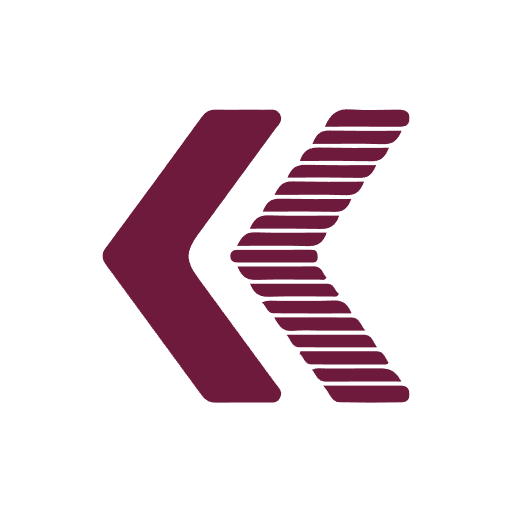
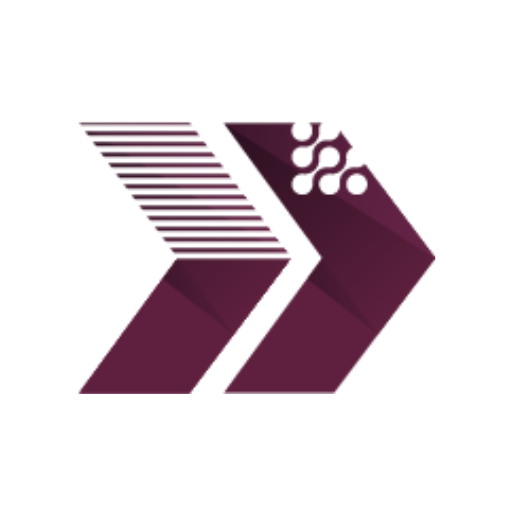
fix-template-bugs

Changed region(s): [[0.1562, 0.1875, 0.875, 0.8125]]

diff --git a/public/css/aos.min.css b/public/css/aos.min.css
@@ -1,0 +1,1 @@
+[data-aos][data-aos][data-aos-duration="50"],body[data-aos-duration="50"] [data-aos]{transition-duration:50ms}[data-aos][data-aos][data-aos-delay="50"],body[data-aos-delay="50"] [data-aos]{transition-delay:0}[data-aos][data-aos][data-aos-delay="50"].aos-animate,body[data-aos-delay="50"] [data-aos].aos-animate{transition-delay:50ms}[data-aos][data-aos][data-aos-duration="100"],body[data-aos-duration="100"] [data-aos]{transition-duration:.1s}[data-aos][data-aos][data-aos-delay="100"],body[data-aos-delay="100"] [data-aos]{transition-delay:0}[data-aos][data-aos][data-aos-delay="100"].aos-animate,body[data-aos-delay="100"] [data-aos].aos-animate{transition-delay:.1s}[data-aos][data-aos][data-aos-duration="150"],body[data-aos-duration="150"] [data-aos]{transition-duration:.15s}[data-aos][data-aos][data-aos-delay="150"],body[data-aos-delay="150"] [data-aos]{transition-delay:0}[data-aos][data-aos][data-aos-delay="150"].aos-animate,body[data-aos-delay="150"] [data-aos].aos-animate{transition-delay:.15s}[data-aos][data-aos][data-aos-duration="200"],body[data-aos-duration="200"] [data-aos]{transition-duration:.2s}[data-aos][data-aos][data-aos-delay="200"],body[data-aos-delay="200"] [data-aos]{transition-delay:0}[data-aos][data-aos][data-aos-delay="200"].aos-animate,body[data-aos-delay="200"] [data-aos].aos-animate{transition-delay:.2s}[data-aos][data-aos][data-aos-duration="250"],body[data-aos-duration="250"] [data-aos]{transition-duration:.25s}[data-aos][data-aos][data-aos-delay="250"],body[data-aos-delay="250"] [data-aos]{transition-delay:0}[data-aos][data-aos][data-aos-delay="250"].aos-animate,body[data-aos-delay="250"] [data-aos].aos-animate{transition-delay:.25s}[data-aos][data-aos][data-aos-duration="300"],body[data-aos-duration="300"] [data-aos]{transition-duration:.3s}[data-aos][data-aos][data-aos-delay="300"],body[data-aos-delay="300"] [data-aos]{transition-delay:0}[data-aos][data-aos][data-aos-delay="300"].aos-animate,body[data-aos-delay="300"] [data-aos].aos-animate{transition-delay:.3s}[data-aos][data-aos][data-aos-duration="350"],body[data-aos-duration="350"] [data-aos]{transition-duration:.35s}[data-aos][data-aos][data-aos-delay="350"],body[data-aos-delay="350"] [data-aos]{transition-delay:0}[data-aos][data-aos][data-aos-delay="350"].aos-animate,body[data-aos-delay="350"] [data-aos].aos-animate{transition-delay:.35s}[data-aos][data-aos][data-aos-duration="400"],body[data-aos-duration="400"] [data-aos]{transition-duration:.4s}[data-aos][data-aos][data-aos-delay="400"],body[data-aos-delay="400"] [data-aos]{transition-delay:0}[data-aos][data-aos][data-aos-delay="400"].aos-animate,body[data-aos-delay="400"] [data-aos].aos-animate{transition-delay:.4s}[data-aos][data-aos][data-aos-duration="450"],body[data-aos-duration="450"] [data-aos]{transition-duration:.45s}[data-aos][data-aos][data-aos-delay="450"],body[data-aos-delay="450"] [data-aos]{transition-delay:0}[data-aos][data-aos][data-aos-delay="450"].aos-animate,body[data-aos-delay="450"] [data-aos].aos-animate{transition-delay:.45s}[data-aos][data-aos][data-aos-duration="500"],body[data-aos-duration="500"] [data-aos]{transition-duration:.5s}[data-aos][data-aos][data-aos-delay="500"],body[data-aos-delay="500"] [data-aos]{transition-delay:0}[data-aos][data-aos][data-aos-delay="500"].aos-animate,body[data-aos-delay="500"] [data-aos].aos-animate{transition-delay:.5s}[data-aos][data-aos][data-aos-duration="550"],body[data-aos-duration="550"] [data-aos]{transition-duration:.55s}[data-aos][data-aos][data-aos-delay="550"],body[data-aos-delay="550"] [data-aos]{transition-delay:0}[data-aos][data-aos][data-aos-delay="550"].aos-animate,body[data-aos-delay="550"] [data-aos].aos-animate{transition-delay:.55s}[data-aos][data-aos][data-aos-duration="600"],body[data-aos-duration="600"] [data-aos]{transition-duration:.6s}[data-aos][data-aos][data-aos-delay="600"],body[data-aos-delay="600"] [data-aos]{transition-delay:0}[data-aos][data-aos][data-aos-delay="600"].aos-animate,body[data-aos-delay="600"] [data-aos].aos-animate{transition-delay:.6s}[data-aos][data-aos][data-aos-duration="650"],body[data-aos-duration="650"] [data-aos]{transition-duration:.65s}[data-aos][data-aos][data-aos-delay="650"],body[data-aos-delay="650"] [data-aos]{transition-delay:0}[data-aos][data-aos][data-aos-delay="650"].aos-animate,body[data-aos-delay="650"] [data-aos].aos-animate{transition-delay:.65s}[data-aos][data-aos][data-aos-duration="700"],body[data-aos-duration="700"] [data-aos]{transition-duration:.7s}[data-aos][data-aos][data-aos-delay="700"],body[data-aos-delay="700"] [data-aos]{transition-delay:0}[data-aos][data-aos][data-aos-delay="700"].aos-animate,body[data-aos-delay="700"] [data-aos].aos-animate{transition-delay:.7s}[data-aos][data-aos][data-aos-duration="750"],body[data-aos-duration="750"] [data-aos]{transition-duration:.75s}[data-aos][data-aos][data-aos-delay="750"],body[data-aos-delay="750"] [data-aos]{transition-delay:0}[data-aos][data-aos][data-aos-delay="750"].aos-animate,body[data-aos-delay="750"] [data-aos].aos-animate{transition-delay:.75s}[data-aos][data-aos][data-aos-duration="800"],body[data-aos-duration="800"] [data-aos]{transition-duration:.8s}[data-aos][data-aos][data-aos-delay="800"],body[data-aos-delay="800"] [data-aos]{transition-delay:0}[data-aos][data-aos][data-aos-delay="800"].aos-animate,body[data-aos-delay="800"] [data-aos].aos-animate{transition-delay:.8s}[data-aos][data-aos][data-aos-duration="850"],body[data-aos-duration="850"] [data-aos]{transition-duration:.85s}[data-aos][data-aos][data-aos-delay="850"],body[data-aos-delay="850"] [data-aos]{transition-delay:0}[data-aos][data-aos][data-aos-delay="850"].aos-animate,body[data-aos-delay="850"] [data-aos].aos-animate{transition-delay:.85s}[data-aos][data-aos][data-aos-duration="900"],body[data-aos-duration="900"] [data-aos]{transition-duration:.9s}[data-aos][data-aos][data-aos-delay="900"],body[data-aos-delay="900"] [data-aos]{transition-delay:0}[data-aos][data-aos][data-aos-delay="900"].aos-animate,body[data-aos-delay="900"] [data-aos].aos-animate{transition-delay:.9s}[data-aos][data-aos][data-aos-duration="950"],body[data-aos-duration="950"] [data-aos]{transition-duration:.95s}[data-aos][data-aos][data-aos-delay="950"],body[data-aos-delay="950"] [data-aos]{transition-delay:0}[data-aos][data-aos][data-aos-delay="950"].aos-animate,body[data-aos-delay="950"] [data-aos].aos-animate{transition-delay:.95s}[data-aos][data-aos][data-aos-duration="1000"],body[data-aos-duration="1000"] [data-aos]{transition-duration:1s}[data-aos][data-aos][data-aos-delay="1000"],body[data-aos-delay="1000"] [data-aos]{transition-delay:0}[data-aos][data-aos][data-aos-delay="1000"].aos-animate,body[data-aos-delay="1000"] [data-aos].aos-animate{transition-delay:1s}[data-aos][data-aos][data-aos-duration="1050"],body[data-aos-duration="1050"] [data-aos]{transition-duration:1.05s}[data-aos][data-aos][data-aos-delay="1050"],body[data-aos-delay="1050"] [data-aos]{transition-delay:0}[data-aos][data-aos][data-aos-delay="1050"].aos-animate,body[data-aos-delay="1050"] [data-aos].aos-animate{transition-delay:1.05s}[data-aos][data-aos][data-aos-duration="1100"],body[data-aos-duration="1100"] [data-aos]{transition-duration:1.1s}[data-aos][data-aos][data-aos-delay="1100"],body[data-aos-delay="1100"] [data-aos]{transition-delay:0}[data-aos][data-aos][data-aos-delay="1100"].aos-animate,body[data-aos-delay="1100"] [data-aos].aos-animate{transition-delay:1.1s}[data-aos][data-aos][data-aos-duration="1150"],body[data-aos-duration="1150"] [data-aos]{transition-duration:1.15s}[data-aos][data-aos][data-aos-delay="1150"],body[data-aos-delay="1150"] [data-aos]{transition-delay:0}[data-aos][data-aos][data-aos-delay="1150"].aos-animate,body[data-aos-delay="1150"] [data-aos].aos-animate{transition-delay:1.15s}[data-aos][data-aos][data-aos-duration="1200"],body[data-aos-duration="1200"] [data-aos]{transition-duration:1.2s}[data-aos][data-aos][data-aos-delay="1200"],body[data-aos-delay="1200"] [data-aos]{transition-delay:0}[data-aos][data-aos][data-aos-delay="1200"].aos-animate,body[data-aos-delay="1200"] [data-aos].aos-animate{transition-delay:1.2s}[data-aos][data-aos][data-aos-duration="1250"],body[data-aos-duration="1250"] [data-aos]{transition-duration:1.25s}[data-aos][data-aos][data-aos-delay="1250"],body[data-aos-delay="1250"] [data-aos]{transition-delay:0}[data-aos][data-aos][data-aos-delay="1250"].aos-animate,body[data-aos-delay="1250"] [data-aos].aos-animate{transition-delay:1.25s}[data-aos][data-aos][data-aos-duration="1300"],body[data-aos-duration="1300"] [data-aos]{transition-duration:1.3s}[data-aos][data-aos][data-aos-delay="1300"],body[data-aos-delay="1300"] [data-aos]{transition-delay:0}[data-aos][data-aos][data-aos-delay="1300"].aos-animate,body[data-aos-delay="1300"] [data-aos].aos-animate{transition-delay:1.3s}[data-aos][data-aos][data-aos-duration="1350"],body[data-aos-duration="1350"] [data-aos]{transition-duration:1.35s}[data-aos][data-aos][data-aos-delay="1350"],body[data-aos-delay="1350"] [data-aos]{transition-delay:0}[data-aos][data-aos][data-aos-delay="1350"].aos-animate,body[data-aos-delay="1350"] [data-aos].aos-animate{transition-delay:1.35s}[data-aos][data-aos][data-aos-duration="1400"],body[data-aos-duration="1400"] [data-aos]{transition-duration:1.4s}[data-aos][data-aos][data-aos-delay="1400"],body[data-aos-delay="1400"] [data-aos]{transition-delay:0}[data-aos][data-aos][data-aos-delay="1400"].aos-animate,body[data-aos-delay="1400"] [data-aos].aos-animate{transition-delay:1.4s}[data-aos][data-aos][data-aos-duration="1450"],body[data-aos-duration="1450"] [data-aos]{transition-duration:1.45s}[data-aos][data-aos][data-aos-delay="1450"],body[data-aos-delay="1450"] [data-aos]{transition-delay:0}[data-aos][data-aos][data-aos-delay="1450"].aos-animate,body[data-aos-delay="1450"] [data-aos].aos-animate{transition-delay:1.45s}[data-aos][data-aos][data-aos-duration="1500"],body[data-aos-duration="1500"] [data-aos]{transition-duration:1.5s}[data-aos][data-aos][data-aos-delay="1500"],body[data-aos-delay="1500"] [data-aos]{transition-delay:0}[data-aos][data-aos][data-aos-delay="1500"].aos-animate,body[data-aos-delay="1500"] [data-aos].aos-animate{transition-delay:1.5s}[data-aos][data-aos][data-aos-duration="1550"],body[data-aos-duration="1550"] [data-aos]{transition-duration:1.55s}[data-aos][data-aos][data-aos-delay="1550"],body[data-aos-delay="1550"] [data-aos]{transition-delay:0}[data-aos][data-aos][data-aos-delay="1550"].aos-animate,body[data-aos-delay="1550"] [data-aos].aos-animate{transition-delay:1.55s}[data-aos][data-aos][data-aos-duration="1600"],body[data-aos-duration="1600"] [data-aos]{transition-duration:1.6s}[data-aos][data-aos][data-aos-delay="1600"],body[data-aos-delay="1600"] [data-aos]{transition-delay:0}[data-aos][data-aos][data-aos-delay="1600"].aos-animate,body[data-aos-delay="1600"] [data-aos].aos-animate{transition-delay:1.6s}[data-aos][data-aos][data-aos-duration="1650"],body[data-aos-duration="1650"] [data-aos]{transition-duration:1.65s}[data-aos][data-aos][data-aos-delay="1650"],body[data-aos-delay="1650"] [data-aos]{transition-delay:0}[data-aos][data-aos][data-aos-delay="1650"].aos-animate,body[data-aos-delay="1650"] [data-aos].aos-animate{transition-delay:1.65s}[data-aos][data-aos][data-aos-duration="1700"],body[data-aos-duration="1700"] [data-aos]{transition-duration:1.7s}[data-aos][data-aos][data-aos-delay="1700"],body[data-aos-delay="1700"] [data-aos]{transition-delay:0}[data-aos][data-aos][data-aos-delay="1700"].aos-animate,body[data-aos-delay="1700"] [data-aos].aos-animate{transition-delay:1.7s}[data-aos][data-aos][data-aos-duration="1750"],body[data-aos-duration="1750"] [data-aos]{transition-duration:1.75s}[data-aos][data-aos][data-aos-delay="1750"],body[data-aos-delay="1750"] [data-aos]{transition-delay:0}[data-aos][data-aos][data-aos-delay="1750"].aos-animate,body[data-aos-delay="1750"] [data-aos].aos-animate{transition-delay:1.75s}[data-aos][data-aos][data-aos-duration="1800"],body[data-aos-duration="1800"] [data-aos]{transition-duration:1.8s}[data-aos][data-aos][data-aos-delay="1800"],body[data-aos-delay="1800"] [data-aos]{transition-delay:0}[data-aos][data-aos][data-aos-delay="1800"].aos-animate,body[data-aos-delay="1800"] [data-aos].aos-animate{transition-delay:1.8s}[data-aos][data-aos][data-aos-duration="1850"],body[data-aos-duration="1850"] [data-aos]{transition-duration:1.85s}[data-aos][data-aos][data-aos-delay="1850"],body[data-aos-delay="1850"] [data-aos]{transition-delay:0}[data-aos][data-aos][data-aos-delay="1850"].aos-animate,body[data-aos-delay="1850"] [data-aos].aos-animate{transition-delay:1.85s}[data-aos][data-aos][data-aos-duration="1900"],body[data-aos-duration="1900"] [data-aos]{transition-duration:1.9s}[data-aos][data-aos][data-aos-delay="1900"],body[data-aos-delay="1900"] [data-aos]{transition-delay:0}[data-aos][data-aos][data-aos-delay="1900"].aos-animate,body[data-aos-delay="1900"] [data-aos].aos-animate{transition-delay:1.9s}[data-aos][data-aos][data-aos-duration="1950"],body[data-aos-duration="1950"] [data-aos]{transition-duration:1.95s}[data-aos][data-aos][data-aos-delay="1950"],body[data-aos-delay="1950"] [data-aos]{transition-delay:0}[data-aos][data-aos][data-aos-delay="1950"].aos-animate,body[data-aos-delay="1950"] [data-aos].aos-animate{transition-delay:1.95s}[data-aos][data-aos][data-aos-duration="2000"],body[data-aos-duration="2000"] [data-aos]{transition-duration:2s}[data-aos][data-aos][data-aos-delay="2000"],body[data-aos-delay="2000"] [data-aos]{transition-delay:0}[data-aos][data-aos][data-aos-delay="2000"].aos-animate,body[data-aos-delay="2000"] [data-aos].aos-animate{transition-delay:2s}[data-aos][data-aos][data-aos-duration="2050"],body[data-aos-duration="2050"] [data-aos]{transition-duration:2.05s}[data-aos][data-aos][data-aos-delay="2050"],body[data-aos-delay="2050"] [data-aos]{transition-delay:0}[data-aos][data-aos][data-aos-delay="2050"].aos-animate,body[data-aos-delay="2050"] [data-aos].aos-animate{transition-delay:2.05s}[data-aos][data-aos][data-aos-duration="2100"],body[data-aos-duration="2100"] [data-aos]{transition-duration:2.1s}[data-aos][data-aos][data-aos-delay="2100"],body[data-aos-delay="2100"] [data-aos]{transition-delay:0}[data-aos][data-aos][data-aos-delay="2100"].aos-animate,body[data-aos-delay="2100"] [data-aos].aos-animate{transition-delay:2.1s}[data-aos][data-aos][data-aos-duration="2150"],body[data-aos-duration="2150"] [data-aos]{transition-duration:2.15s}[data-aos][data-aos][data-aos-delay="2150"],body[data-aos-delay="2150"] [data-aos]{transition-delay:0}[data-aos][data-aos][data-aos-delay="2150"].aos-animate,body[data-aos-delay="2150"] [data-aos].aos-animate{transition-delay:2.15s}[data-aos][data-aos][data-aos-duration="2200"],body[data-aos-duration="2200"] [data-aos]{transition-duration:2.2s}[data-aos][data-aos][data-aos-delay="2200"],body[data-aos-delay="2200"] [data-aos]{transition-delay:0}[data-aos][data-aos][data-aos-delay="2200"].aos-animate,body[data-aos-delay="2200"] [data-aos].aos-animate{transition-delay:2.2s}[data-aos][data-aos][data-aos-duration="2250"],body[data-aos-duration="2250"] [data-aos]{transition-duration:2.25s}[data-aos][data-aos][data-aos-delay="2250"],body[data-aos-delay="2250"] [data-aos]{transition-delay:0}[data-aos][data-aos][data-aos-delay="2250"].aos-animate,body[data-aos-delay="2250"] [data-aos].aos-animate{transition-delay:2.25s}[data-aos][data-aos][data-aos-duration="2300"],body[data-aos-duration="2300"] [data-aos]{transition-duration:2.3s}[data-aos][data-aos][data-aos-delay="2300"],body[data-aos-delay="2300"] [data-aos]{transition-delay:0}[data-aos][data-aos][data-aos-delay="2300"].aos-animate,body[data-aos-delay="2300"] [data-aos].aos-animate{transition-delay:2.3s}[data-aos][data-aos][data-aos-duration="2350"],body[data-aos-duration="2350"] [data-aos]{transition-duration:2.35s}[data-aos][data-aos][data-aos-delay="2350"],body[data-aos-delay="2350"] [data-aos]{transition-delay:0}[data-aos][data-aos][data-aos-delay="2350"].aos-animate,body[data-aos-delay="2350"] [data-aos].aos-animate{transition-delay:2.35s}[data-aos][data-aos][data-aos-duration="2400"],body[data-aos-duration="2400"] [data-aos]{transition-duration:2.4s}[data-aos][data-aos][data-aos-delay="2400"],body[data-aos-delay="2400"] [data-aos]{transition-delay:0}[data-aos][data-aos][data-aos-delay="2400"].aos-animate,body[data-aos-delay="2400"] [data-aos].aos-animate{transition-delay:2.4s}[data-aos][data-aos][data-aos-duration="2450"],body[data-aos-duration="2450"] [data-aos]{transition-duration:2.45s}[data-aos][data-aos][data-aos-delay="2450"],body[data-aos-delay="2450"] [data-aos]{transition-delay:0}[data-aos][data-aos][data-aos-delay="2450"].aos-animate,body[data-aos-delay="2450"] [data-aos].aos-animate{transition-delay:2.45s}[data-aos][data-aos][data-aos-duration="2500"],body[data-aos-duration="2500"] [data-aos]{transition-duration:2.5s}[data-aos][data-aos][data-aos-delay="2500"],body[data-aos-delay="2500"] [data-aos]{transition-delay:0}[data-aos][data-aos][data-aos-delay="2500"].aos-animate,body[data-aos-delay="2500"] [data-aos].aos-animate{transition-delay:2.5s}[data-aos][data-aos][data-aos-duration="2550"],body[data-aos-duration="2550"] [data-aos]{transition-duration:2.55s}[data-aos][data-aos][data-aos-delay="2550"],body[data-aos-delay="2550"] [data-aos]{transition-delay:0}[data-aos][data-aos][data-aos-delay="2550"].aos-animate,body[data-aos-delay="2550"] [data-aos].aos-animate{transition-delay:2.55s}[data-aos][data-aos][data-aos-duration="2600"],body[data-aos-duration="2600"] [data-aos]{transition-duration:2.6s}[data-aos][data-aos][data-aos-delay="2600"],body[data-aos-delay="2600"] [data-aos]{transition-delay:0}[data-aos][data-aos][data-aos-delay="2600"].aos-animate,body[data-aos-delay="2600"] [data-aos].aos-animate{transition-delay:2.6s}[data-aos][data-aos][data-aos-duration="2650"],body[data-aos-duration="2650"] [data-aos]{transition-duration:2.65s}[data-aos][data-aos][data-aos-delay="2650"],body[data-aos-delay="2650"] [data-aos]{transition-delay:0}[data-aos][data-aos][data-aos-delay="2650"].aos-animate,body[data-aos-delay="2650"] [data-aos].aos-animate{transition-delay:2.65s}[data-aos][data-aos][data-aos-duration="2700"],body[data-aos-duration="2700"] [data-aos]{transition-duration:2.7s}[data-aos][data-aos][data-aos-delay="2700"],body[data-aos-delay="2700"] [data-aos]{transition-delay:0}[data-aos][data-aos][data-aos-delay="2700"].aos-animate,body[data-aos-delay="2700"] [data-aos].aos-animate{transition-delay:2.7s}[data-aos][data-aos][data-aos-duration="2750"],body[data-aos-duration="2750"] [data-aos]{transition-duration:2.75s}[data-aos][data-aos][data-aos-delay="2750"],body[data-aos-delay="2750"] [data-aos]{transition-delay:0}[data-aos][data-aos][data-aos-delay="2750"].aos-animate,body[data-aos-delay="2750"] [data-aos].aos-animate{transition-delay:2.75s}[data-aos][data-aos][data-aos-duration="2800"],body[data-aos-duration="2800"] [data-aos]{transition-duration:2.8s}[data-aos][data-aos][data-aos-delay="2800"],body[data-aos-delay="2800"] [data-aos]{transition-delay:0}[data-aos][data-aos][data-aos-delay="2800"].aos-animate,body[data-aos-delay="2800"] [data-aos].aos-animate{transition-delay:2.8s}[data-aos][data-aos][data-aos-duration="2850"],body[data-aos-duration="2850"] [data-aos]{transition-duration:2.85s}[data-aos][data-aos][data-aos-delay="2850"],body[data-aos-delay="2850"] [data-aos]{transition-delay:0}[data-aos][data-aos][data-aos-delay="2850"].aos-animate,body[data-aos-delay="2850"] [data-aos].aos-animate{transition-delay:2.85s}[data-aos][data-aos][data-aos-duration="2900"],body[data-aos-duration="2900"] [data-aos]{transition-duration:2.9s}[data-aos][data-aos][data-aos-delay="2900"],body[data-aos-delay="2900"] [data-aos]{transition-delay:0}[data-aos][data-aos][data-aos-delay="2900"].aos-animate,body[data-aos-delay="2900"] [data-aos].aos-animate{transition-delay:2.9s}[data-aos][data-aos][data-aos-duration="2950"],body[data-aos-duration="2950"] [data-aos]{transition-duration:2.95s}[data-aos][data-aos][data-aos-delay="2950"],body[data-aos-delay="2950"] [data-aos]{transition-delay:0}[data-aos][data-aos][data-aos-delay="2950"].aos-animate,body[data-aos-delay="2950"] [data-aos].aos-animate{transition-delay:2.95s}[data-aos][data-aos][data-aos-duration="3000"],body[data-aos-duration="3000"] [data-aos]{transition-duration:3s}[data-aos][data-aos][data-aos-delay="3000"],body[data-aos-delay="3000"] [data-aos]{transition-delay:0}[data-aos][data-aos][data-aos-delay="3000"].aos-animate,body[data-aos-delay="3000"] [data-aos].aos-animate{transition-delay:3s}[data-aos][data-aos][data-aos-easing=linear],body[data-aos-easing=linear] [data-aos]{transition-timing-function:cubic-bezier(.25,.25,.75,.75)}[data-aos][data-aos][data-aos-easing=ease],body[data-aos-easing=ease] [data-aos]{transition-timing-function:ease}[data-aos][data-aos][data-aos-easing=ease-in],body[data-aos-easing=ease-in] [data-aos]{transition-timing-function:ease-in}[data-aos][data-aos][data-aos-easing=ease-out],body[data-aos-easing=ease-out] [data-aos]{transition-timing-function:ease-out}[data-aos][data-aos][data-aos-easing=ease-in-out],body[data-aos-easing=ease-in-out] [data-aos]{transition-timing-function:ease-in-out}[data-aos][data-aos][data-aos-easing=ease-in-back],body[data-aos-easing=ease-in-back] [data-aos]{transition-timing-function:cubic-bezier(.6,-.28,.735,.045)}[data-aos][data-aos][data-aos-easing=ease-out-back],body[data-aos-easing=ease-out-back] [data-aos]{transition-timing-function:cubic-bezier(.175,.885,.32,1.275)}[data-aos][data-aos][data-aos-easing=ease-in-out-back],body[data-aos-easing=ease-in-out-back] [data-aos]{transition-timing-function:cubic-bezier(.68,-.55,.265,1.55)}[data-aos][data-aos][data-aos-easing=ease-in-sine],body[data-aos-easing=ease-in-sine] [data-aos]{transition-timing-function:cubic-bezier(.47,0,.745,.715)}[data-aos][data-aos][data-aos-easing=ease-out-sine],body[data-aos-easing=ease-out-sine] [data-aos]{transition-timing-function:cubic-bezier(.39,.575,.565,1)}[data-aos][data-aos][data-aos-easing=ease-in-out-sine],body[data-aos-easing=ease-in-out-sine] [data-aos]{transition-timing-function:cubic-bezier(.445,.05,.55,.95)}[data-aos][data-aos][data-aos-easing=ease-in-quad],body[data-aos-easing=ease-in-quad] [data-aos]{transition-timing-function:cubic-bezier(.55,.085,.68,.53)}[data-aos][data-aos][data-aos-easing=ease-out-quad],body[data-aos-easing=ease-out-quad] [data-aos]{transition-timing-function:cubic-bezier(.25,.46,.45,.94)}[data-aos][data-aos][data-aos-easing=ease-in-out-quad],body[data-aos-easing=ease-in-out-quad] [data-aos]{transition-timing-function:cubic-bezier(.455,.03,.515,.955)}[data-aos][data-aos][data-aos-easing=ease-in-cubic],body[data-aos-easing=ease-in-cubic] [data-aos]{transition-timing-function:cubic-bezier(.55,.085,.68,.53)}[data-aos][data-aos][data-aos-easing=ease-out-cubic],body[data-aos-easing=ease-out-cubic] [data-aos]{transition-timing-function:cubic-bezier(.25,.46,.45,.94)}[data-aos][data-aos][data-aos-easing=ease-in-out-cubic],body[data-aos-easing=ease-in-out-cubic] [data-aos]{transition-timing-function:cubic-bezier(.455,.03,.515,.955)}[data-aos][data-aos][data-aos-easing=ease-in-quart],body[data-aos-easing=ease-in-quart] [data-aos]{transition-timing-function:cubic-bezier(.55,.085,.68,.53)}[data-aos][data-aos][data-aos-easing=ease-out-quart],body[data-aos-easing=ease-out-quart] [data-aos]{transition-timing-function:cubic-bezier(.25,.46,.45,.94)}[data-aos][data-aos][data-aos-easing=ease-in-out-quart],body[data-aos-easing=ease-in-out-quart] [data-aos]{transition-timing-function:cubic-bezier(.455,.03,.515,.955)}[data-aos^=fade][data-aos^=fade]{opacity:0;transition-property:opacity,transform}[data-aos^=fade][data-aos^=fade].aos-animate{opacity:1;transform:translateZ(0)}[data-aos=fade-up]{transform:translate3d(0,100px,0)}[data-aos=fade-down]{transform:translate3d(0,-100px,0)}[data-aos=fade-right]{transform:translate3d(-100px,0,0)}[data-aos=fade-left]{transform:translate3d(100px,0,0)}[data-aos=fade-up-right]{transform:translate3d(-100px,100px,0)}[data-aos=fade-up-left]{transform:translate3d(100px,100px,0)}[data-aos=fade-down-right]{transform:translate3d(-100px,-100px,0)}[data-aos=fade-down-left]{transform:translate3d(100px,-100px,0)}[data-aos^=zoom][data-aos^=zoom]{opacity:0;transition-property:opacity,transform}[data-aos^=zoom][data-aos^=zoom].aos-animate{opacity:1;transform:translateZ(0) scale(1)}[data-aos=zoom-in]{transform:scale(.6)}[data-aos=zoom-in-up]{transform:translate3d(0,100px,0) scale(.6)}[data-aos=zoom-in-down]{transform:translate3d(0,-100px,0) scale(.6)}[data-aos=zoom-in-right]{transform:translate3d(-100px,0,0) scale(.6)}[data-aos=zoom-in-left]{transform:translate3d(100px,0,0) scale(.6)}[data-aos=zoom-out]{transform:scale(1.2)}[data-aos=zoom-out-up]{transform:translate3d(0,100px,0) scale(1.2)}[data-aos=zoom-out-down]{transform:translate3d(0,-100px,0) scale(1.2)}[data-aos=zoom-out-right]{transform:translate3d(-100px,0,0) scale(1.2)}[data-aos=zoom-out-left]{transform:translate3d(100px,0,0) scale(1.2)}[data-aos^=slide][data-aos^=slide]{transition-property:transform}[data-aos^=slide][data-aos^=slide].aos-animate{transform:translateZ(0)}[data-aos=slide-up]{transform:translate3d(0,100%,0)}[data-aos=slide-down]{transform:translate3d(0,-100%,0)}[data-aos=slide-right]{transform:translate3d(-100%,0,0)}[data-aos=slide-left]{transform:translate3d(100%,0,0)}[data-aos^=flip][data-aos^=flip]{backface-visibility:hidden;transition-property:transform}[data-aos=flip-left]{transform:perspective(2500px) rotateY(-100deg)}[data-aos=flip-left].aos-animate{transform:perspective(2500px) rotateY(0)}[data-aos=flip-right]{transform:perspective(2500px) rotateY(100deg)}[data-aos=flip-right].aos-animate{transform:perspective(2500px) rotateY(0)}[data-aos=flip-up]{transform:perspective(2500px) rotateX(-100deg)}[data-aos=flip-up].aos-animate{transform:perspective(2500px) rotateX(0)}[data-aos=flip-down]{transform:perspective(2500px) rotateX(100deg)}[data-aos=flip-down].aos-animate{transform:perspective(2500px) rotateX(0)}

diff --git a/public/css/style.css b/public/css/style.css
@@ -3,6 +3,8 @@ body {
 }
 
 
+
+
 header {
     backdrop-filter: blur(20px);
     z-index: 100;
@@ -31,7 +33,6 @@ section.landing-page .overlay {
     position: absolute;
     top: 0;
     left: 0;
-
     opacity: .3;
     z-index: -1;
     background-image: radial-gradient(circle, #7d133b, #892047, #952c52, #a0385f, #ac436b);
@@ -42,13 +43,29 @@ section.landing-page video {
 }
 
 .text-gradient {
-    /*background-image: linear-gradient(to left top, #7d133b, #892047, #952c52, #a0385f, #ac436b);*/
-    /*color: transparent;*/
-    /*-webkit-background-clip: text;*/
-    /*background-clip: text;*/
+    background-image: linear-gradient(
+        to left top,
+        #cf2064,
+        #d15c84,
+        #ac436b
+    );
+
+    color: transparent;
+    -webkit-background-clip: text;
+    background-clip: text;
 
 }
 
+.header-logo {
+    height: 40px;
+}
+
+
+@media screen and (min-width: 576px) {
+    .header-logo {
+        height: 55px;
+    }
+}
 
 #accordionConditions {
     counter-reset: conditions;

diff --git a/resources/views/index.blade.php b/resources/views/index.blade.php
@@ -25,13 +25,12 @@
 
 
         <div class="video-overlay position-absolute top-50 start-50 translate-middle z-n1">
-            <video  src="{{asset('videos/bg.mp4')}}" class="h-100 object-fit-cover vh-100  vw-100" autoplay muted loop></video>
+            <video  src="{{asset('videos/bg.webm')}}" class="h-100 object-fit-cover vh-100  vw-100" autoplay muted loop preload="none"></video>
         </div>
 
         <div class="overlay z-n1"></div>
 
-
-        <div class="container text-center" data-aos="fade-up">
+        <div class="container text-center">
 
             <h1 class="mb-4 fw-bolder text-light display-4 lh-base">الدفع الإلكتروني في <span class="text-gradient">موقع الديوان</span> متوفر</h1>
             <p class="text-light w-75 mx-auto mb-4">قم بالدفع على موقع الديوان بكل أمان بإستعمال بطاقتك البنكية أو بطاقة أحد أقاربك. هذه المنصة متوفرة 7/7 أيام و 24/24 ساعة. و الدفع من خلالها يضمن معالجة ملفكم بسرعة.</p>
@@ -48,14 +47,16 @@
 
         <div class="container py-4">
 
-            <h3 class="display-4 fw-bold text-center mb-3" >قم بإجراء مدفوعاتك على موقعنا بسهولة وأمان.</h3>
-            <p class="fs-4 text-center fw-light mb-5" >لا ترغب في التنقل لدفع مستحقات الدورات أو الشهادات ؟ اكتشف هنا جميع الخطوات التي يجب اتباعها لإجراء المدفوعات عبر الإنترنت باستخدام بطاقة CIB أو الذهبية لبريد الجزائر.</p>
+
+            <h3 class="display-4 fw-bold text-center mb-4" data-aos="fade-up"  data-aos-duration="800">قم بإجراء مدفوعاتك على موقعنا بسهولة وأمان.</h3>
+            <h5 class="text-center fw-light mb-5" data-aos="fade-up" data-aos-duration="800">لا ترغب في التنقل لدفع مستحقات الدورات أو الشهادات ؟ اكتشف هنا جميع الخطوات التي يجب اتباعها لإجراء المدفوعات عبر الإنترنت باستخدام بطاقة CIB أو الذهبية لبريد الجزائر.</h5>
 
 
             <div class="row">
 
                 @foreach($features as $key => $feature)
-                    <div class="col-md-4 text-center" >
+                    <div class="col-md-4 text-center"  data-aos="fade-up"
+                         data-aos-duration="{{800 + ($key + 1) * 400}}">
                         <img src="{{$feature['image']}}" alt="icon-steps" width="200" class="mb-3">
                         <div class="d-flex align-items-center justify-content-center fw-bolder">
                             <span class="rounded-circle bg-primary text-light  fs-4 d-flex align-items-center justify-content-center text-center me-2" style="width: 40px;height: 40px">{{$key + 1}}</span>
@@ -70,13 +71,13 @@
 
     </section>
 
-    <section class="bg-primary-subtle py-5" >
+    <section class="bg-primary-subtle py-5"  data-aos="fade-up">
         <div class="container py-4">
             <h2 class="display-4 fw-bold text-center mb-3" data-aos="fade-down">الشبكة البنكية للدفع الإلكتروني</h2>
             <p class="fs-4 text-center fw-light mb-5" data-aos="fade-up">تدعم منصتنا الدفع الإلكتروني عبر شبكة البنوك المتصلة، مما يضمن تنفيذ المعاملات بسرعة وأمان، مع توفير خدمات التحويل والدفع عبر الإنترنت بشكل موثوق ومباشر.</p>
 
             <!-- Swiper -->
-            <div class="swiper banks py-3 my-5" data-aos="fade-up">
+            <div class="swiper banks py-3 my-5">
                 <div class="swiper-wrapper">
 
                     @foreach($banks as $bank)

diff --git a/resources/views/template/header.blade.php b/resources/views/template/header.blade.php
@@ -3,7 +3,7 @@
     <nav class="navbar navbar-expand-lg navbar-dark shadow-sm py-2 {{Request::url() == url('/') ? " bg-transparent" : "bg-primary"}}">
         <div class="container">
             <a class="navbar-brand text-sm-center" href="{{url('/')}}">
-                <img src="{{asset('images/logo-white.svg')}}" alt="" height="55">
+                <img src="{{asset('images/logo-o-white.svg')}}" alt="" class="header-logo">
             </a>
             <button class="navbar-toggler" type="button" data-bs-toggle="collapse" data-bs-target="#navbarSupportedContent" aria-controls="navbarSupportedContent" aria-expanded="false" aria-label="Toggle navigation">
                 <span class="bi bi-three-dots-vertical"></span>

diff --git a/resources/views/template/styles.blade.php b/resources/views/template/styles.blade.php
@@ -1,5 +1,4 @@
-    <link href="https://fonts.googleapis.com/css2?family=IBM+Plex+Sans+Arabic:wght@100;200;300;400;500;600;700&display=swap" rel="stylesheet">
-    <link href="https://unpkg.com/aos@2.3.1/dist/aos.css" rel="stylesheet">
     <link rel="stylesheet" href="{{ asset('css/bootstrap.rtl.css') }}">
     <link rel="stylesheet" href="{{ asset('css/style.css') }}">
-    <link rel="stylesheet" href="https://cdn.jsdelivr.net/npm/bootstrap-icons@1.11.3/font/bootstrap-icons.min.css">
+    <link rel="stylesheet" href="{{ asset('css/aos.min.css') }}">
+    <link rel="stylesheet" href="https://cdn.jsdelivr.net/npm/bootstrap-icons@1.13.1/font/bootstrap-icons.min.css">

diff --git a/resources/views/template/footer.blade.php b/resources/views/template/footer.blade.php
@@ -6,7 +6,7 @@
 
 
             <div class="col-lg-4">
-                <img src="{{asset('images/logo-white.svg')}}" alt="" height="55" class="mb-3">
+                <img src="{{asset('images/logo-o-white.svg')}}" alt="" height="55" class="mb-3">
 
                 <p class="lh-lg">مؤسسة عمومية ذات طابع صناعي وتجاري تحت وصاية وزارة التكوين والتعليم المهنيين متخصص بالتكوين المتواصل والدراسات والاستشارة وتقديم المساعدة للشركات والمؤسسات العمومية والخاصة.</p>
             </div>

diff --git a/resources/views/products.blade.php b/resources/views/products.blade.php
@@ -88,7 +88,7 @@
                 @endforeach
             </div>
 
-            <div class="row g-5 products">
+            <div class="row gy-5 g-md-5 products">
 
                 @foreach($products as $product)
 
